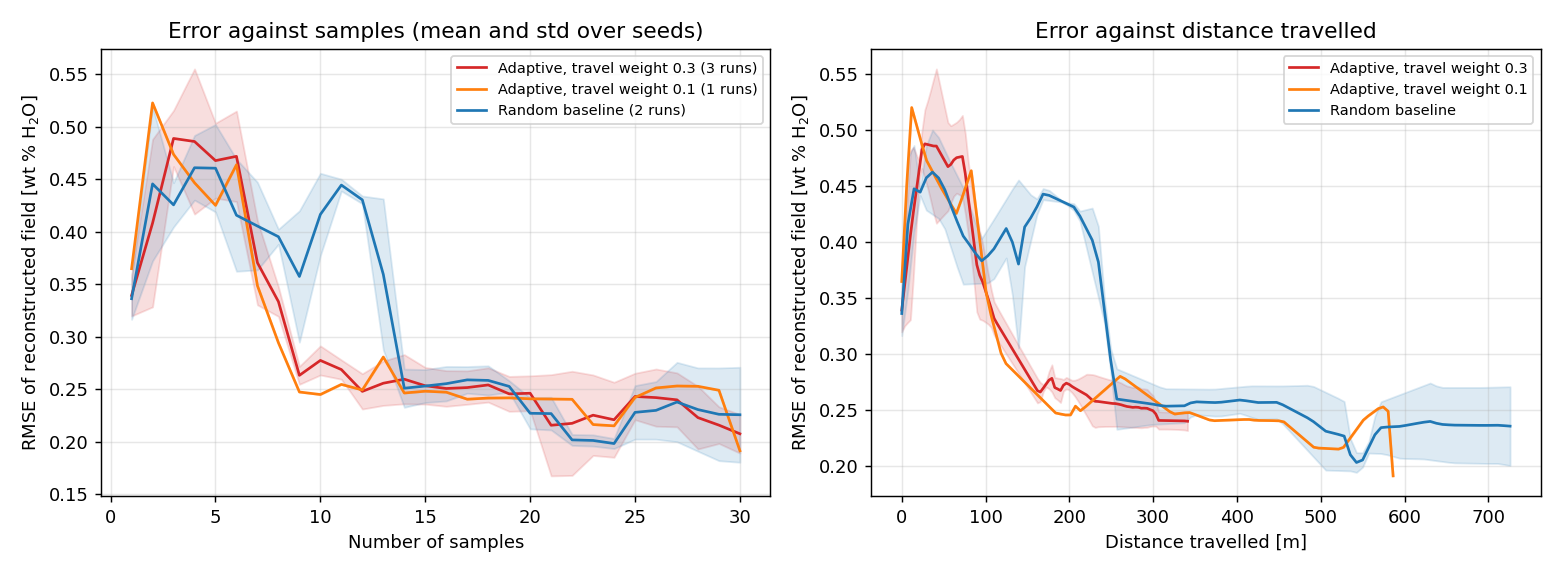
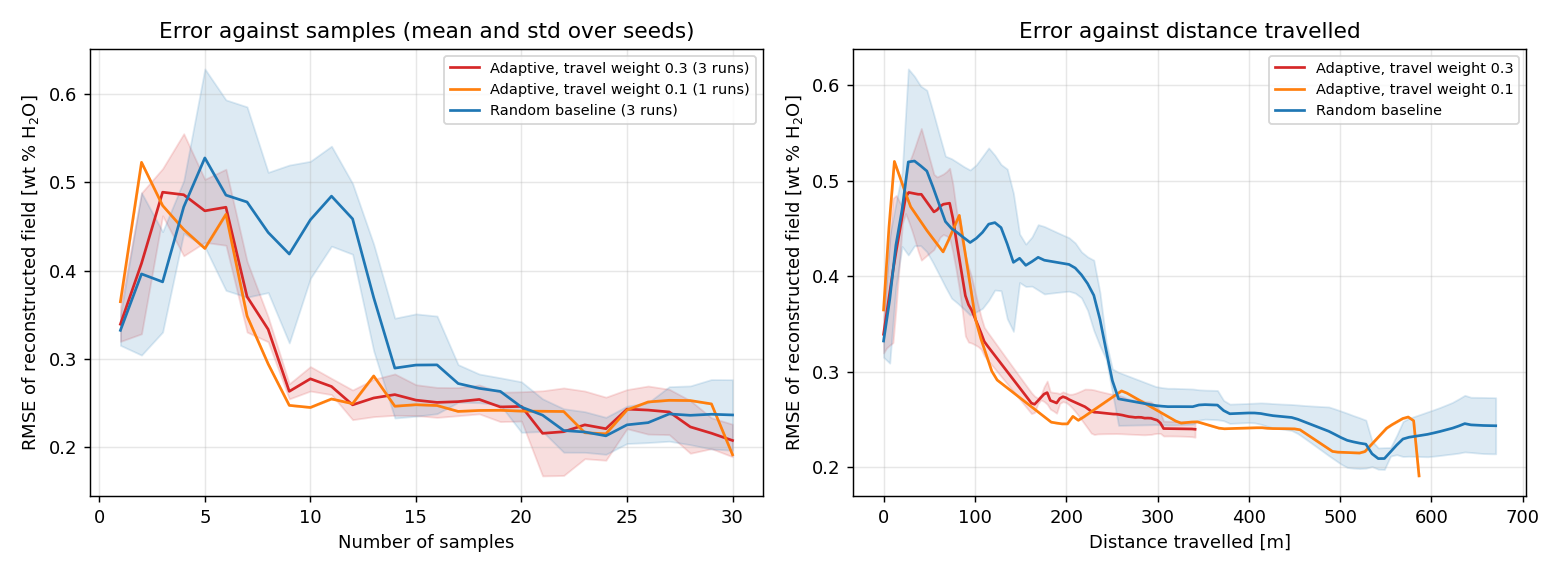
Explain Arsia Mons and the real instrument; add references and random seed 2
Plain-language subsection on the Mars Odyssey Gamma Ray Spectrometer and
how it is simulated, with a comparison table. Arsia Mons is described in
the text and caption, with its position cited. Reference list added; the
journal citations are marked to be checked.

Claude-Session: https://claude.ai/code/session_014b53gUiPt4SaEH1Gw9upAE

diff --git a/report/latex/main.tex b/report/latex/main.tex
@@ -476,7 +476,7 @@ To make the task realistic, we did not invent a made-up field. We used real meas
 so scientists can work out how much water is mixed into the top layer of the soil. The result is a map of
 Mars showing how wet the soil is in each place. We downloaded it from NASA's public Planetary Data System
 (data set \texttt{ODY-M-GRS-5-ELEMENTS-V1.0}, file \texttt{H2O\_SR\_5X5}; measurements made between June 2002
-and April 2005).
+and April 2005)~\cite{pds}.
 
 \paragraph{How the amount of water is written.}
 The amount is given as a \emph{percentage of the soil's weight}. A value of 4 means that 4\,kg of every 100\,kg of
@@ -512,9 +512,11 @@ The rover explores a cave about $65 \times 55$\,m, so the NASA map had to be fit
 five steps. The same steps are in the software, in \texttt{measurement\_field.py}.
 
 \begin{enumerate}[nosep]
-  \item \textbf{Choose a piece of Mars.} We took a block of $12 \times 12 = 144$ squares around Arsia Mons, a
-        large volcano in the Tharsis region of Mars (latitude $37.5^{\circ}$S to $17.5^{\circ}$N, longitude
-        $212.5^{\circ}$ to $267.5^{\circ}$E). We chose it because every square has a measurement, because the
+  \item \textbf{Choose a piece of Mars.} We took a block of $12 \times 12 = 144$ squares around Arsia Mons
+        (latitude $37.5^{\circ}$S to $17.5^{\circ}$N, longitude $212.5^{\circ}$ to $267.5^{\circ}$E).
+        Arsia Mons is a giant volcano, the southernmost of three in a row on the Tharsis bulge, a huge raised region
+        near the equator of Mars. It lies at $8.35^{\circ}$S, $239.91^{\circ}$E~\cite{wiki_arsia}, close to the middle of the
+        block. We chose it because every square has a measurement, because the
         water varies from place to place (so there is something to discover), and because caves with
         openings in their roofs have been seen from orbit in this region.
   \item \textbf{Match it to the map.} The cave map uses metres: $x$ runs from $-5$ to $60$ and $y$ from
@@ -538,7 +540,7 @@ five steps. The same steps are in the software, in \texttt{measurement\_field.py
   \centering
   \includegraphics[width=0.92\linewidth]{advanced6_nasa_field_on_map.png}
   \caption{From NASA's map to the cave map. (1)~The whole NASA map of water in Martian soil; the red box is the
-  block we used, and the star is Arsia Mons. (2)~The block itself: 144 squares with their values. (3)~The same block
+  block we used, and the star marks Arsia Mons, a giant volcano near the middle of the block. (2)~The block itself: 144 squares with their values. (3)~The same block
   stretched over the cave map. Colour is shown only where the rover can drive. Panels 2 and 3 share one colour scale.}
 \end{figure}
 
@@ -610,6 +612,49 @@ at that spot before any error was added.}
 \bottomrule
 \end{tabular}
 \end{table}
+
+\subsection{The real instrument and our virtual one}
+\label{sec:instrument}
+
+\paragraph{The real instrument.}
+The water map was made by the \emph{Gamma Ray Spectrometer} on Mars Odyssey, a satellite that circles Mars about 400\,km above the
+surface~\cite{boynton2004}. Its main detector is a germanium crystal that counts gamma rays and records the energy of each one. It has to be kept
+extremely cold to work. It cannot see water directly. Instead, cosmic rays from space hit the ground and knock out
+neutrons, and those neutrons make the soil give off gamma rays whose energies are a fingerprint of the elements present.
+Hydrogen leaves a clear mark, and because most hydrogen on Mars is locked in water, scientists turn the hydrogen
+signal into a water amount~\cite{feldman2004}. The instrument senses only the top layer of the ground, between tens of centimetres and about a metre
+deep. From orbit, one measurement covers an area hundreds of kilometres across, which is why NASA's file uses squares
+300\,km wide.
+
+\paragraph{What we built instead.}
+We did not simulate the detector, the gamma rays or the neutrons. We simulated what a user of the instrument gets out of
+it: a water value, with an error, for a place. The rover gives its position, the program looks up NASA's water value
+for that place (blending smoothly between squares), adds a random error of the size NASA reports for that square, and
+returns the answer. In the code this is the function \texttt{measure(x, y)} in \texttt{measurement\_field.py}. The part of the
+program that chooses where to go can call only this function, and never sees the true value.
+
+\begin{table}[h]
+\centering
+\caption{The real instrument compared with our simulated one.}
+\small
+\begin{tabular}{@{}p{3.1cm}p{5.4cm}p{5.5cm}@{}}
+\toprule
+ & \textbf{Real instrument (Mars Odyssey)} & \textbf{Our simulated instrument} \\
+\midrule
+Where it is & On a satellite, about 400\,km above Mars & On the rover, at its position \\[3pt]
+What it covers & An area about 300\,km wide per measurement & A single point \\[3pt]
+How a value is made & Counting gamma rays, then turning the hydrogen signal into water & A look-up in NASA's finished map \\[3pt]
+Where the error comes from & Few gamma rays counted, and corrections for other effects & A random number of the size NASA reports \\[3pt]
+What it returns & Water as a percentage of soil weight & The same \\
+\bottomrule
+\end{tabular}
+\end{table}
+
+\paragraph{What the simulation leaves out.}
+It leaves out the physics of the gamma rays and neutrons, the blurring caused by the 300\,km footprint (ours reads a single point), and
+any error that is shared between measurements. Our errors are all random and independent of each other, but real errors are partly
+systematic. The nearest real equivalent for a rover is the neutron instrument on the Curiosity rover, called DAN, which looks for
+hydrogen under the wheels~\cite{mitrofanov2012}. We did not model it.
 
 \subsection{What is real and what is not}
 
@@ -793,5 +838,22 @@ over a polished generic one. Replace the brackets with what actually happened.
   \item \textbf{Integration.} \todo{State honestly whether the parts were run together before the demonstration, and what broke.}
   \item \textbf{What each member learned.} \todo{One or two sentences each.}
 \end{itemize}
+
+
+% =====================================================================
+\section*{References}
+\addcontentsline{toc}{section}{References}
+\begin{thebibliography}{9}
+\bibitem{pds} NASA Planetary Data System, Geosciences Node. \emph{ODY Mars Gamma Ray Spectrometer 5 Element Concentration V1.0}
+  (data set ODY-M-GRS-5-ELEMENTS-V1.0, product H2O\_SR\_5X5).
+  \url{https://pds-geosciences.wustl.edu/ody/ody-m-grs-5-elements-v1/odgm_xxxx/}. Downloaded 5 October 2026.
+\bibitem{wiki_arsia} ``Arsia Mons''. Wikipedia. \url{https://en.wikipedia.org/wiki/Arsia_Mons}. Position 8.35$^{\circ}$S, 239.91$^{\circ}$E.
+\bibitem{boynton2004} W.~V. Boynton et al. ``The Mars Odyssey Gamma-Ray Spectrometer instrument suite.'' \emph{Space Science Reviews}, 110, 2004.
+  \todo{check volume, pages and year before submission}
+\bibitem{feldman2004} W.~C. Feldman et al. ``Global distribution of near-surface hydrogen on Mars.'' \emph{Journal of Geophysical Research}, 109, 2004.
+  \todo{check details before submission}
+\bibitem{mitrofanov2012} I.~G. Mitrofanov et al. ``Dynamic Albedo of Neutrons (DAN) experiment onboard NASA's Mars Science Laboratory.''
+  \emph{Space Science Reviews}, 170, 2012. \todo{check details before submission}
+\end{thebibliography}
 
 \end{document}
